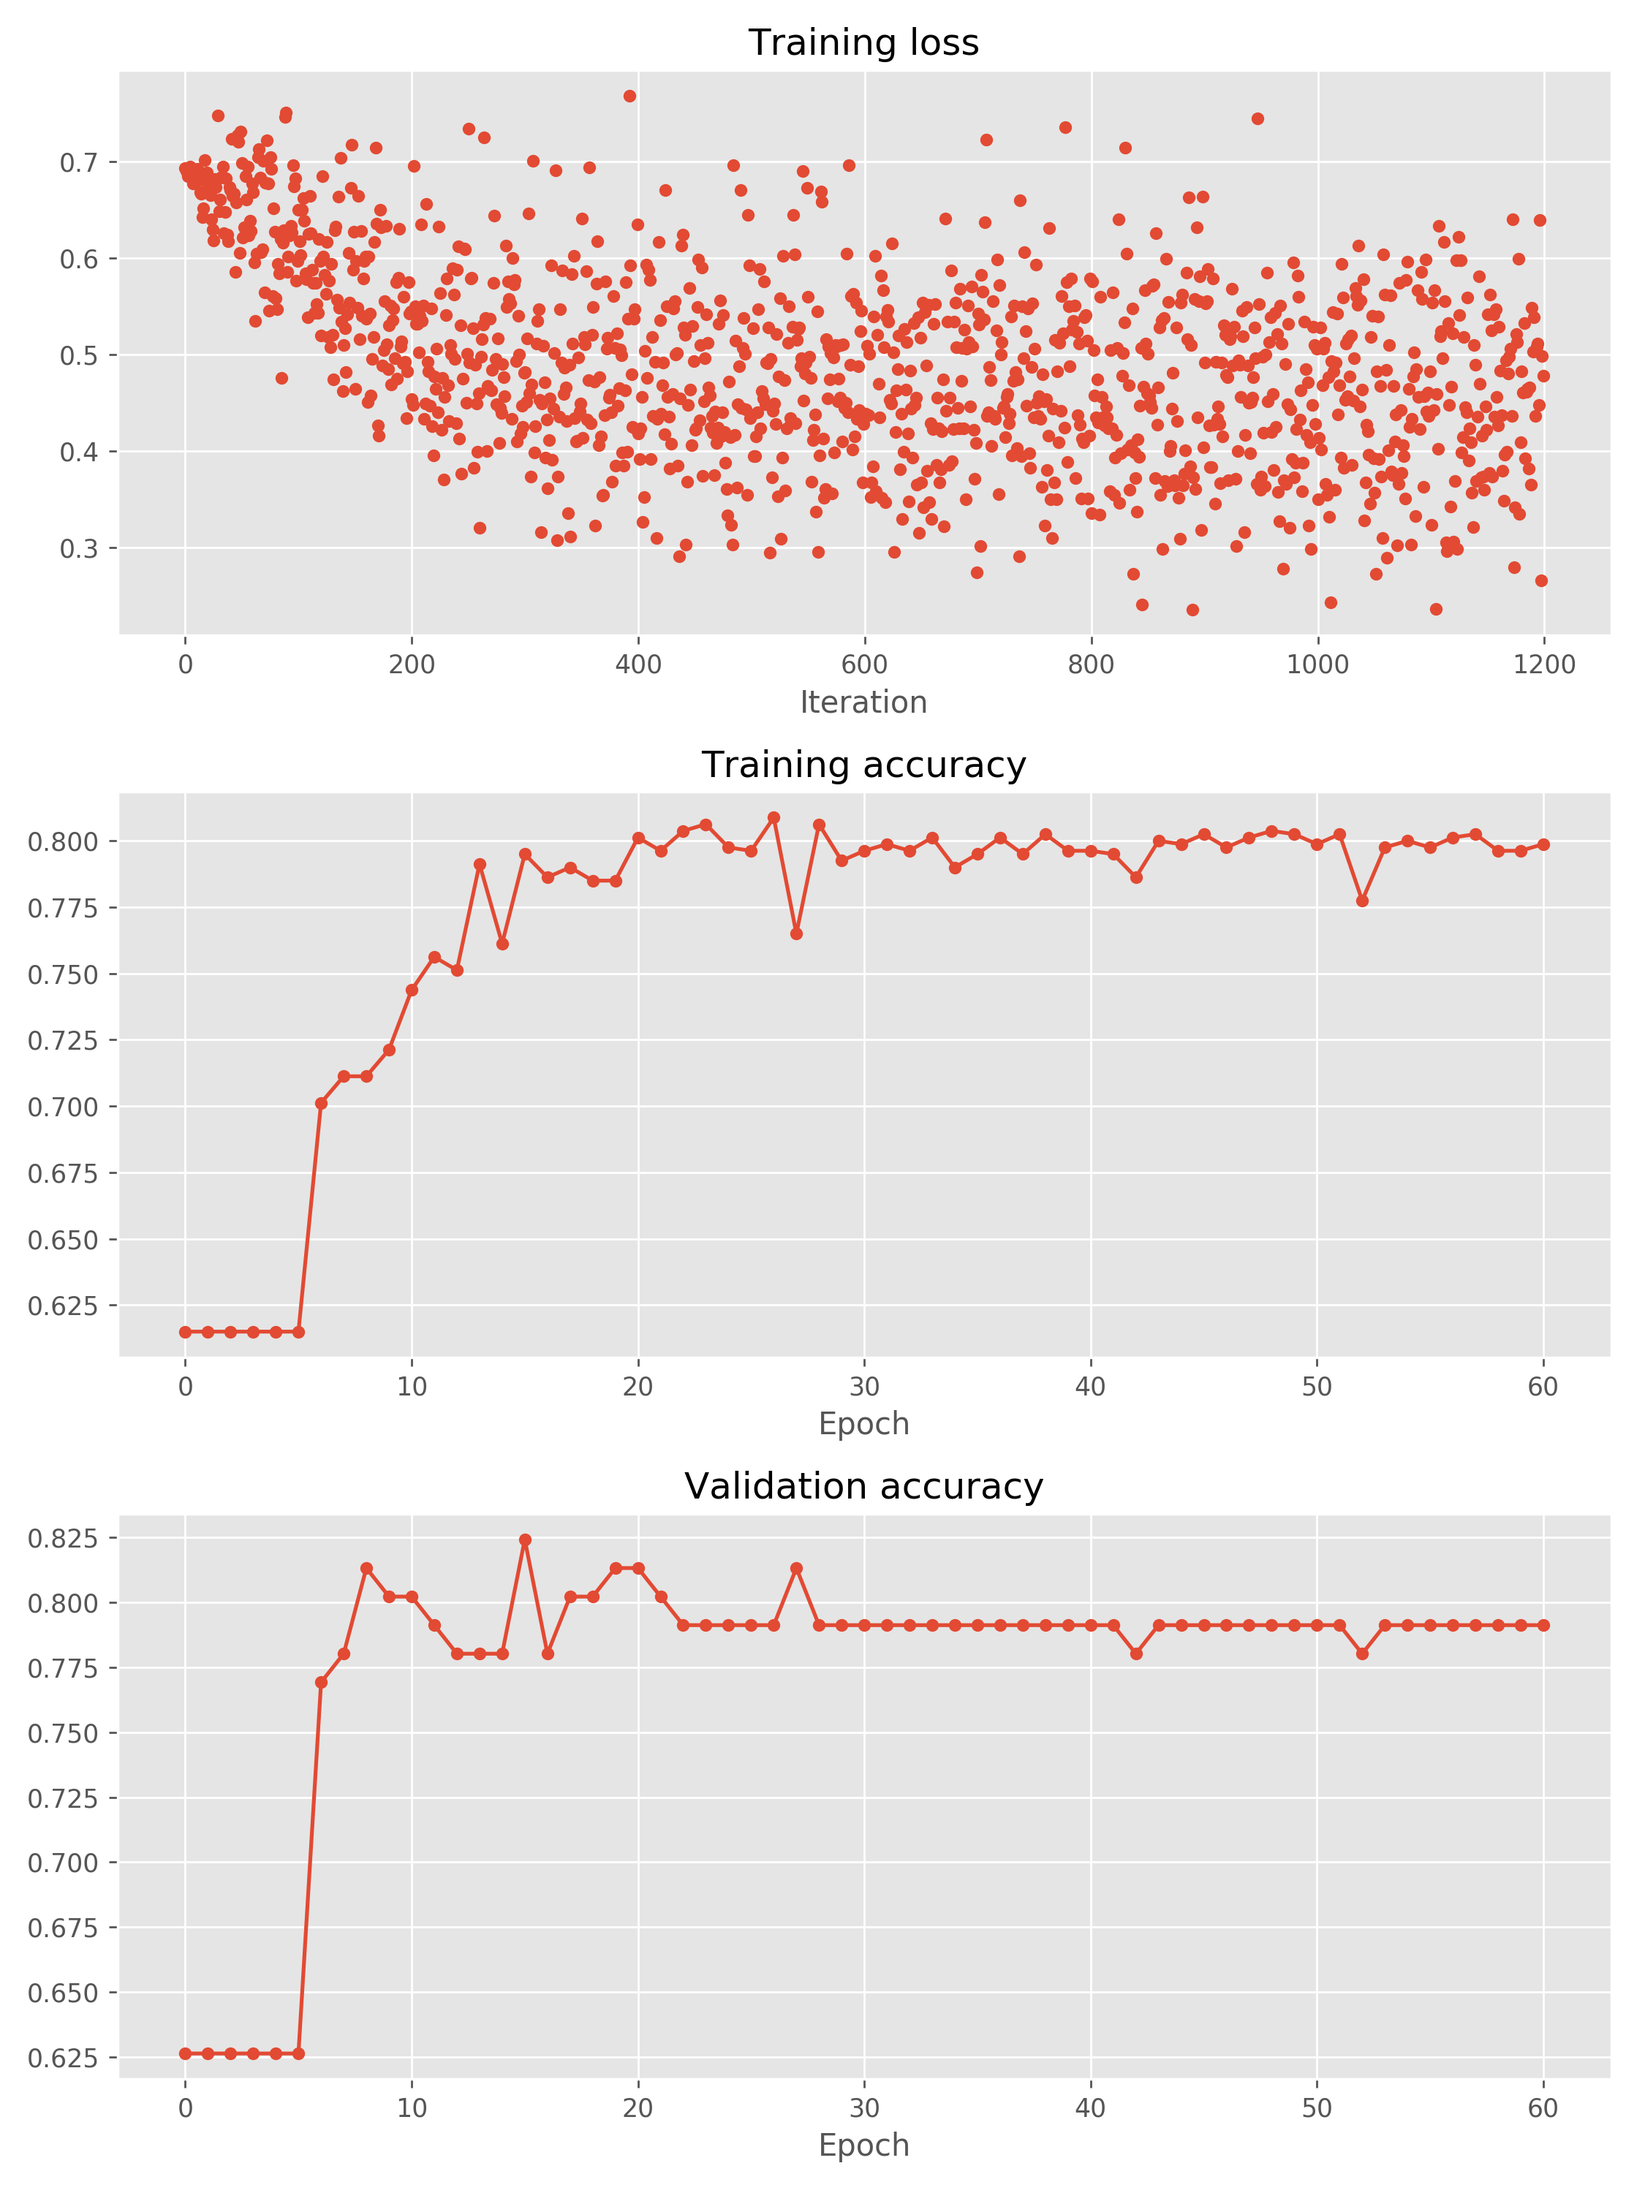
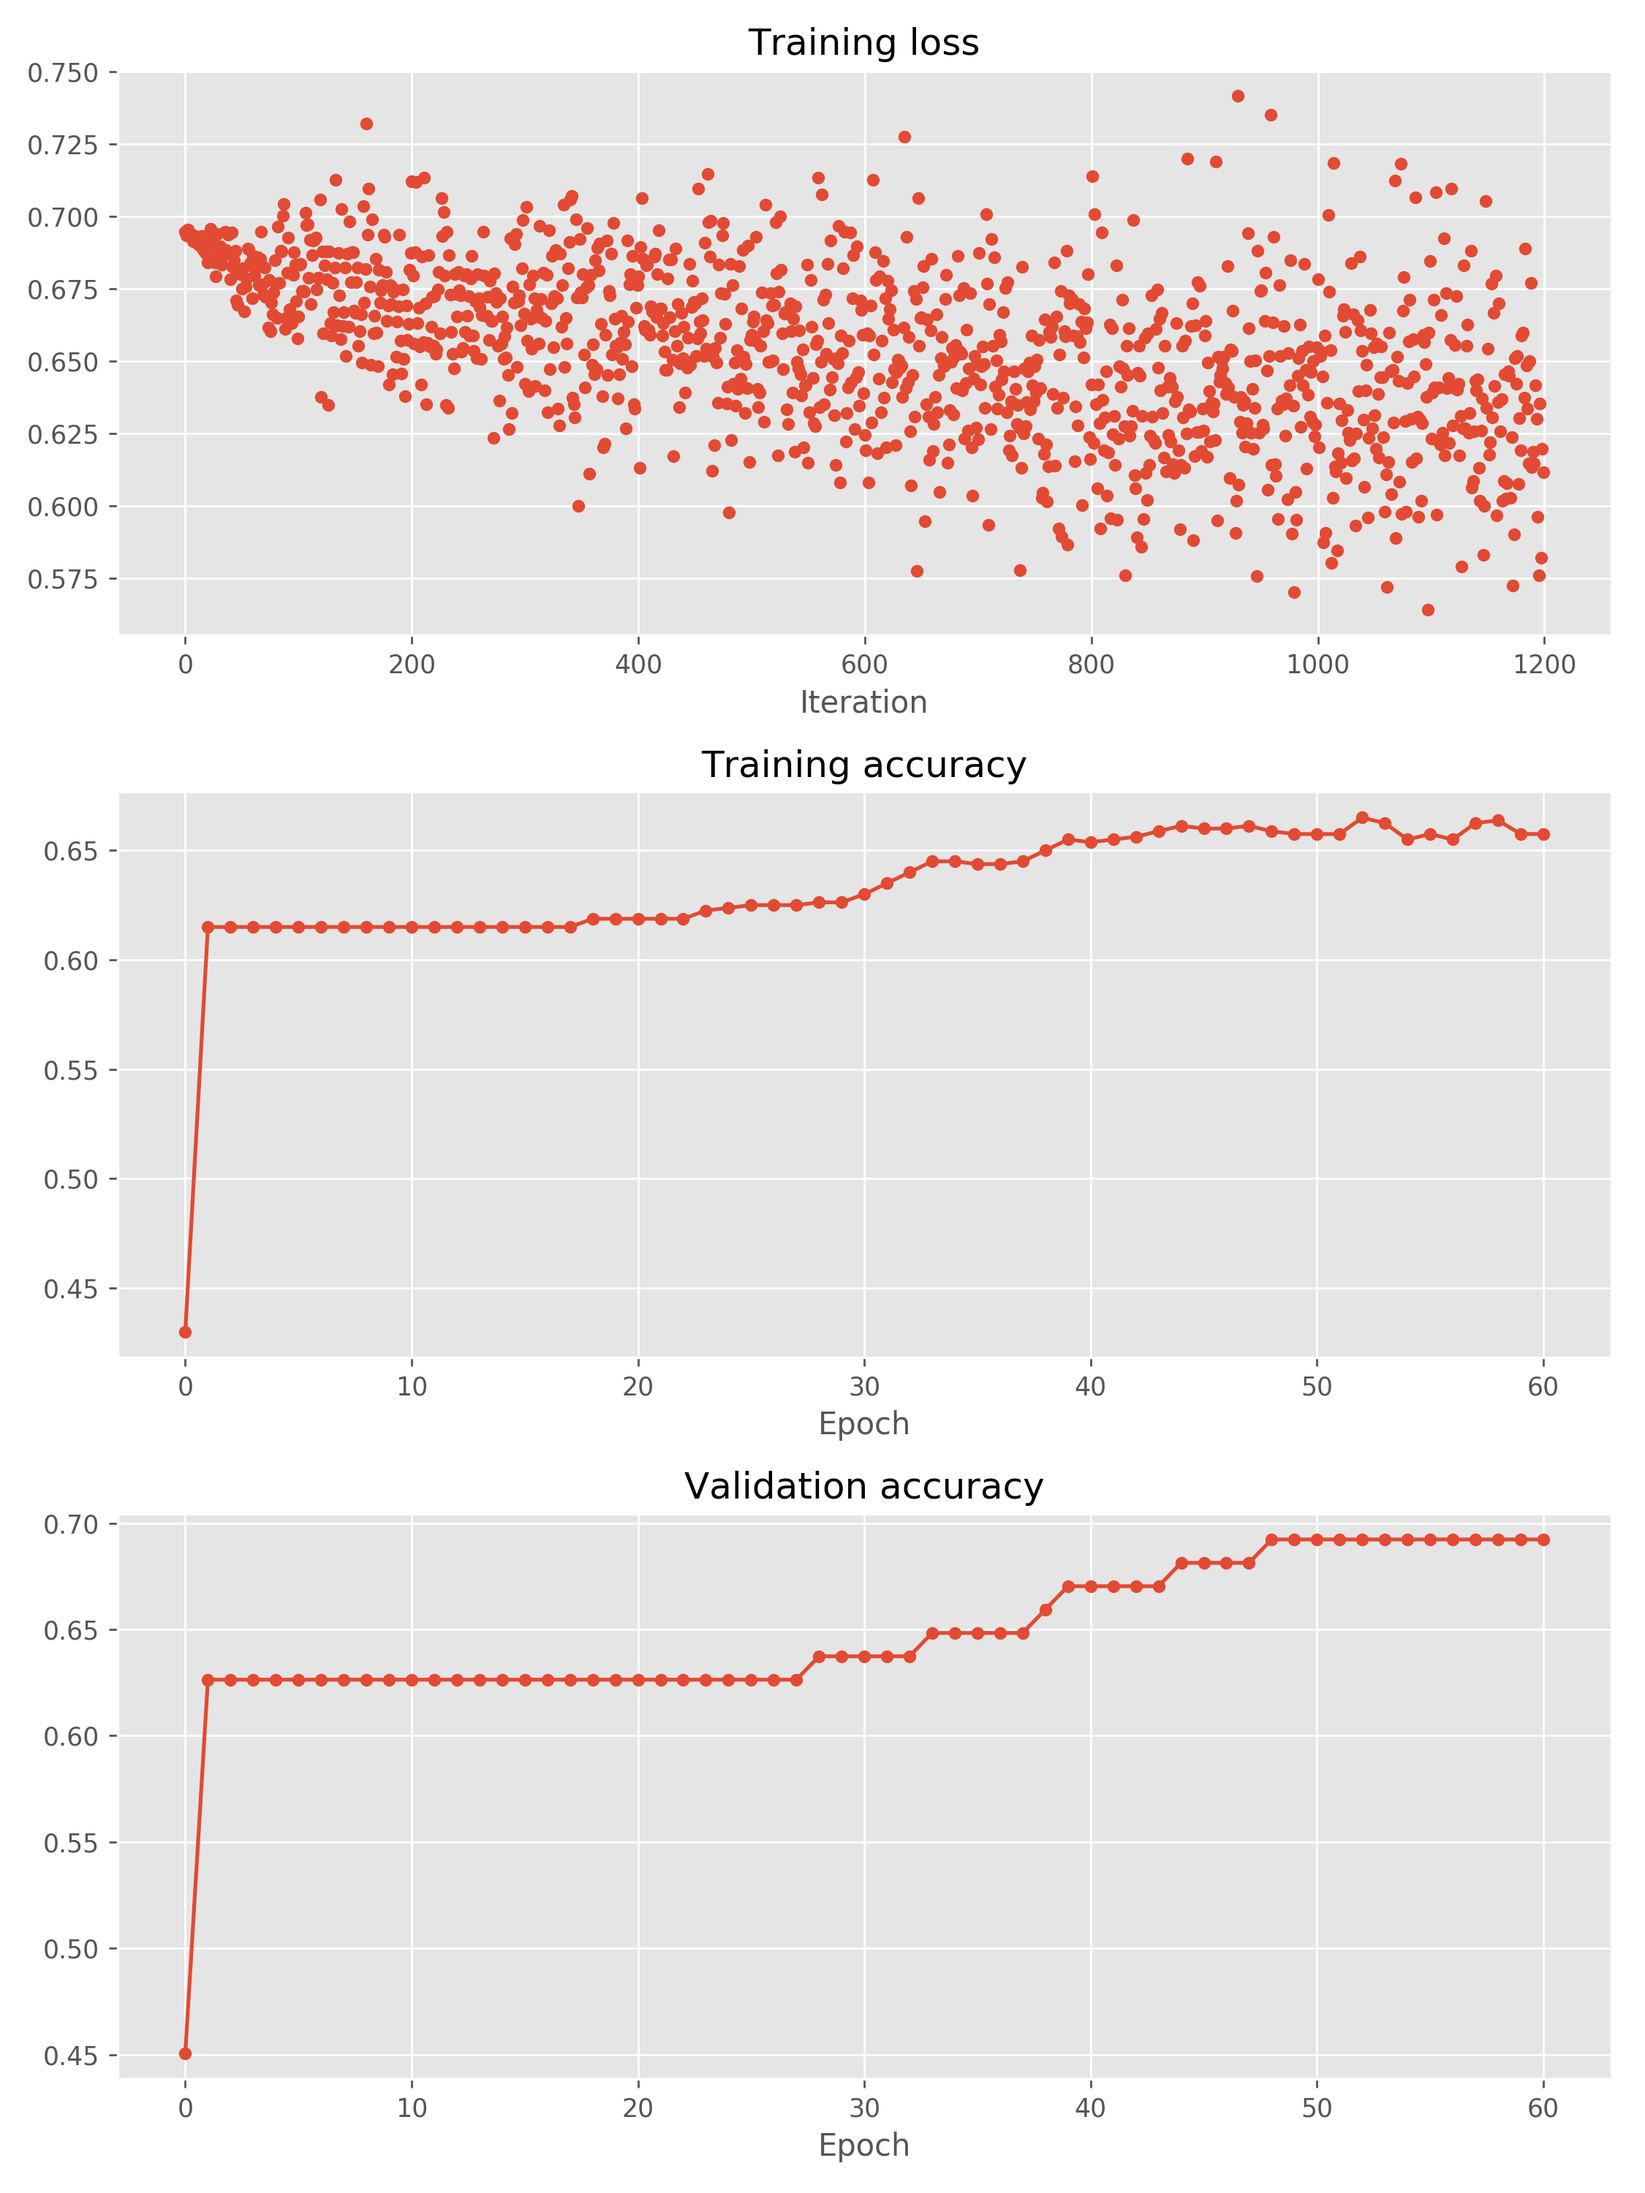
problem 5

diff --git a/main.py b/main.py
@@ -6,7 +6,7 @@ from solver import Solver
 from model import FullyConnectedNet
 
 plt.style.use('ggplot')
-OPTIMIZER = 'adam'
+OPTIMIZER = 'sgd'
 
 
 def plot(solver, filename):
@@ -24,10 +24,8 @@ def plot(solver, filename):
 
     plt.subplot(3, 1, 1)
     plt.plot(solver.loss_history, 'o', markersize=4)
-
     plt.subplot(3, 1, 2)
     plt.plot(solver.train_acc_history, '-o', markersize=4)
-
     plt.subplot(3, 1, 3)
     plt.plot(solver.val_acc_history, '-o', markersize=4)
 
@@ -38,8 +36,42 @@ def plot(solver, filename):
     plt.tight_layout()
     plt.savefig(os.path.join('./result/', filename), dpi=250)
     plt.close()
-    # plt.show()
-    # plt.show()
+
+    return
+
+def plot_solvers(solvers, filename):
+    plt.subplot(3, 1, 1)
+    plt.title('Training loss')
+    plt.xlabel('Iteration')
+
+    plt.subplot(3, 1, 2)
+    plt.title('Training accuracy')
+    plt.xlabel('Epoch')
+
+    plt.subplot(3, 1, 3)
+    plt.title('Validation accuracy')
+    plt.xlabel('Epoch')
+
+    plt.subplot(3, 1, 1)
+    for s in solvers:
+        plt.plot(s.loss_history, 'o', markersize=4, label=s.name)
+
+    plt.subplot(3, 1, 2)
+    for s in solvers:
+        plt.plot(s.train_acc_history, '-o', markersize=4, label=s.name)
+        
+    plt.subplot(3, 1, 3)
+    for s in solvers:
+        plt.plot(s.val_acc_history, '-o', markersize=4, label=s.name)
+
+    for i in [1, 2, 3]:
+        plt.subplot(3, 1, i)
+        plt.legend(loc='upper center', ncol=4)
+    plt.gcf().set_size_inches(9, 12)
+    plt.tight_layout()
+    plt.savefig(os.path.join('./result/', filename), dpi=250)
+    plt.close()
+
     return
 
 
@@ -129,17 +161,15 @@ def problem4():
 
 def problem5():
     data_df = pd.read_csv('titanic.csv')
+    data_df['Sex'] = pd.Categorical(data_df['Sex'])
+    df_dummies = pd.get_dummies(data_df['Sex'], prefix='category')
+    data_df = pd.concat([data_df, df_dummies], axis=1)
+    data_df = data_df.drop(['Sex'], axis=1)
+    # print(data_df.head())
     data = data_df.as_matrix()
 
     x_train, y_train = data[:800, 1:], data[:800, 0]
     x_test, y_test = data[800:, 1:], data[800:, 0]
-
-    fare_mean, fare_std = np.mean(x_train[:, -1]), np.std(x_train[:, -1])
-    age_mean, age_std = np.mean(x_train[:, 2]), np.std(x_train[:, 2])
-    x_train[:, -1] = (x_train[:, -1] - fare_mean) / fare_std
-    x_test[:, -1] = (x_test[:, -1] - fare_mean) / fare_std
-    x_train[:, 2] = (x_train[:, 2] - age_mean) / age_std
-    x_test[:, 2] = (x_test[:, 2] - age_mean) / age_std
 
     data = {
         'X_train': x_train,
@@ -148,24 +178,24 @@ def problem5():
         'y_val': y_test.astype(int),
     }
 
-    model_3 = FullyConnectedNet([3, 3],
-                                input_dim=6,
+    model_5 = FullyConnectedNet([3, 3],
+                                input_dim=7,
                                 num_classes=2,
                                 weight_scale=5e-2,
                                 reg=1e-4)
-    solver_3 = Solver(
-        model_3,
+    solver_5 = Solver(
+        model_5,
         data,
         update_rule=OPTIMIZER,
         optim_config={
             'learning_rate': 0.01,
         },
-        lr_decay=0.95,
-        num_epochs=60,
-        batch_size=40,
+        lr_decay=0.98,
+        num_epochs=80,
+        batch_size=10,
         print_every=100)
-    solver_3.train()
-    plot(solver_3, 'prob3.png')
+    solver_5.train()
+    plot(solver_5, 'prob5.png')
     return
 
 
@@ -176,4 +206,5 @@ def problem6():
 if __name__ == '__main__':
     problem2()
     problem3()
+    problem5()
     pass

diff --git a/model.py b/model.py
@@ -144,10 +144,7 @@ class FullyConnectedNet(object):
         # self.bn_params[1] to the forward pass for the second batch normalization #
         # layer, etc.                                                              #
         ############################################################################
-        cache = {}
-        cache_relu = {}
-        cache_nor = {}
-        cache_dropout = {}
+        cache, cache_relu, cache_nor, cache_dropout = {}, {}, {}, {}
         L = self.num_layers
 
         out, cache[1] = affine_forward(X, self.params['W1'], self.params['b1'])

diff --git a/solver.py b/solver.py
@@ -117,7 +117,8 @@ class Solver(object):
 
         self.checkpoint_name = kwargs.pop('checkpoint_name', None)
         self.print_every = kwargs.pop('print_every', 10)
-        self.verbose = kwargs.pop('verbose', True)
+    	self.verbose = kwargs.pop('verbose', True)
+        self.name = kwargs.pop('name', '')
 
         # Throw an error if there are extra keyword arguments
         if len(kwargs) > 0:
